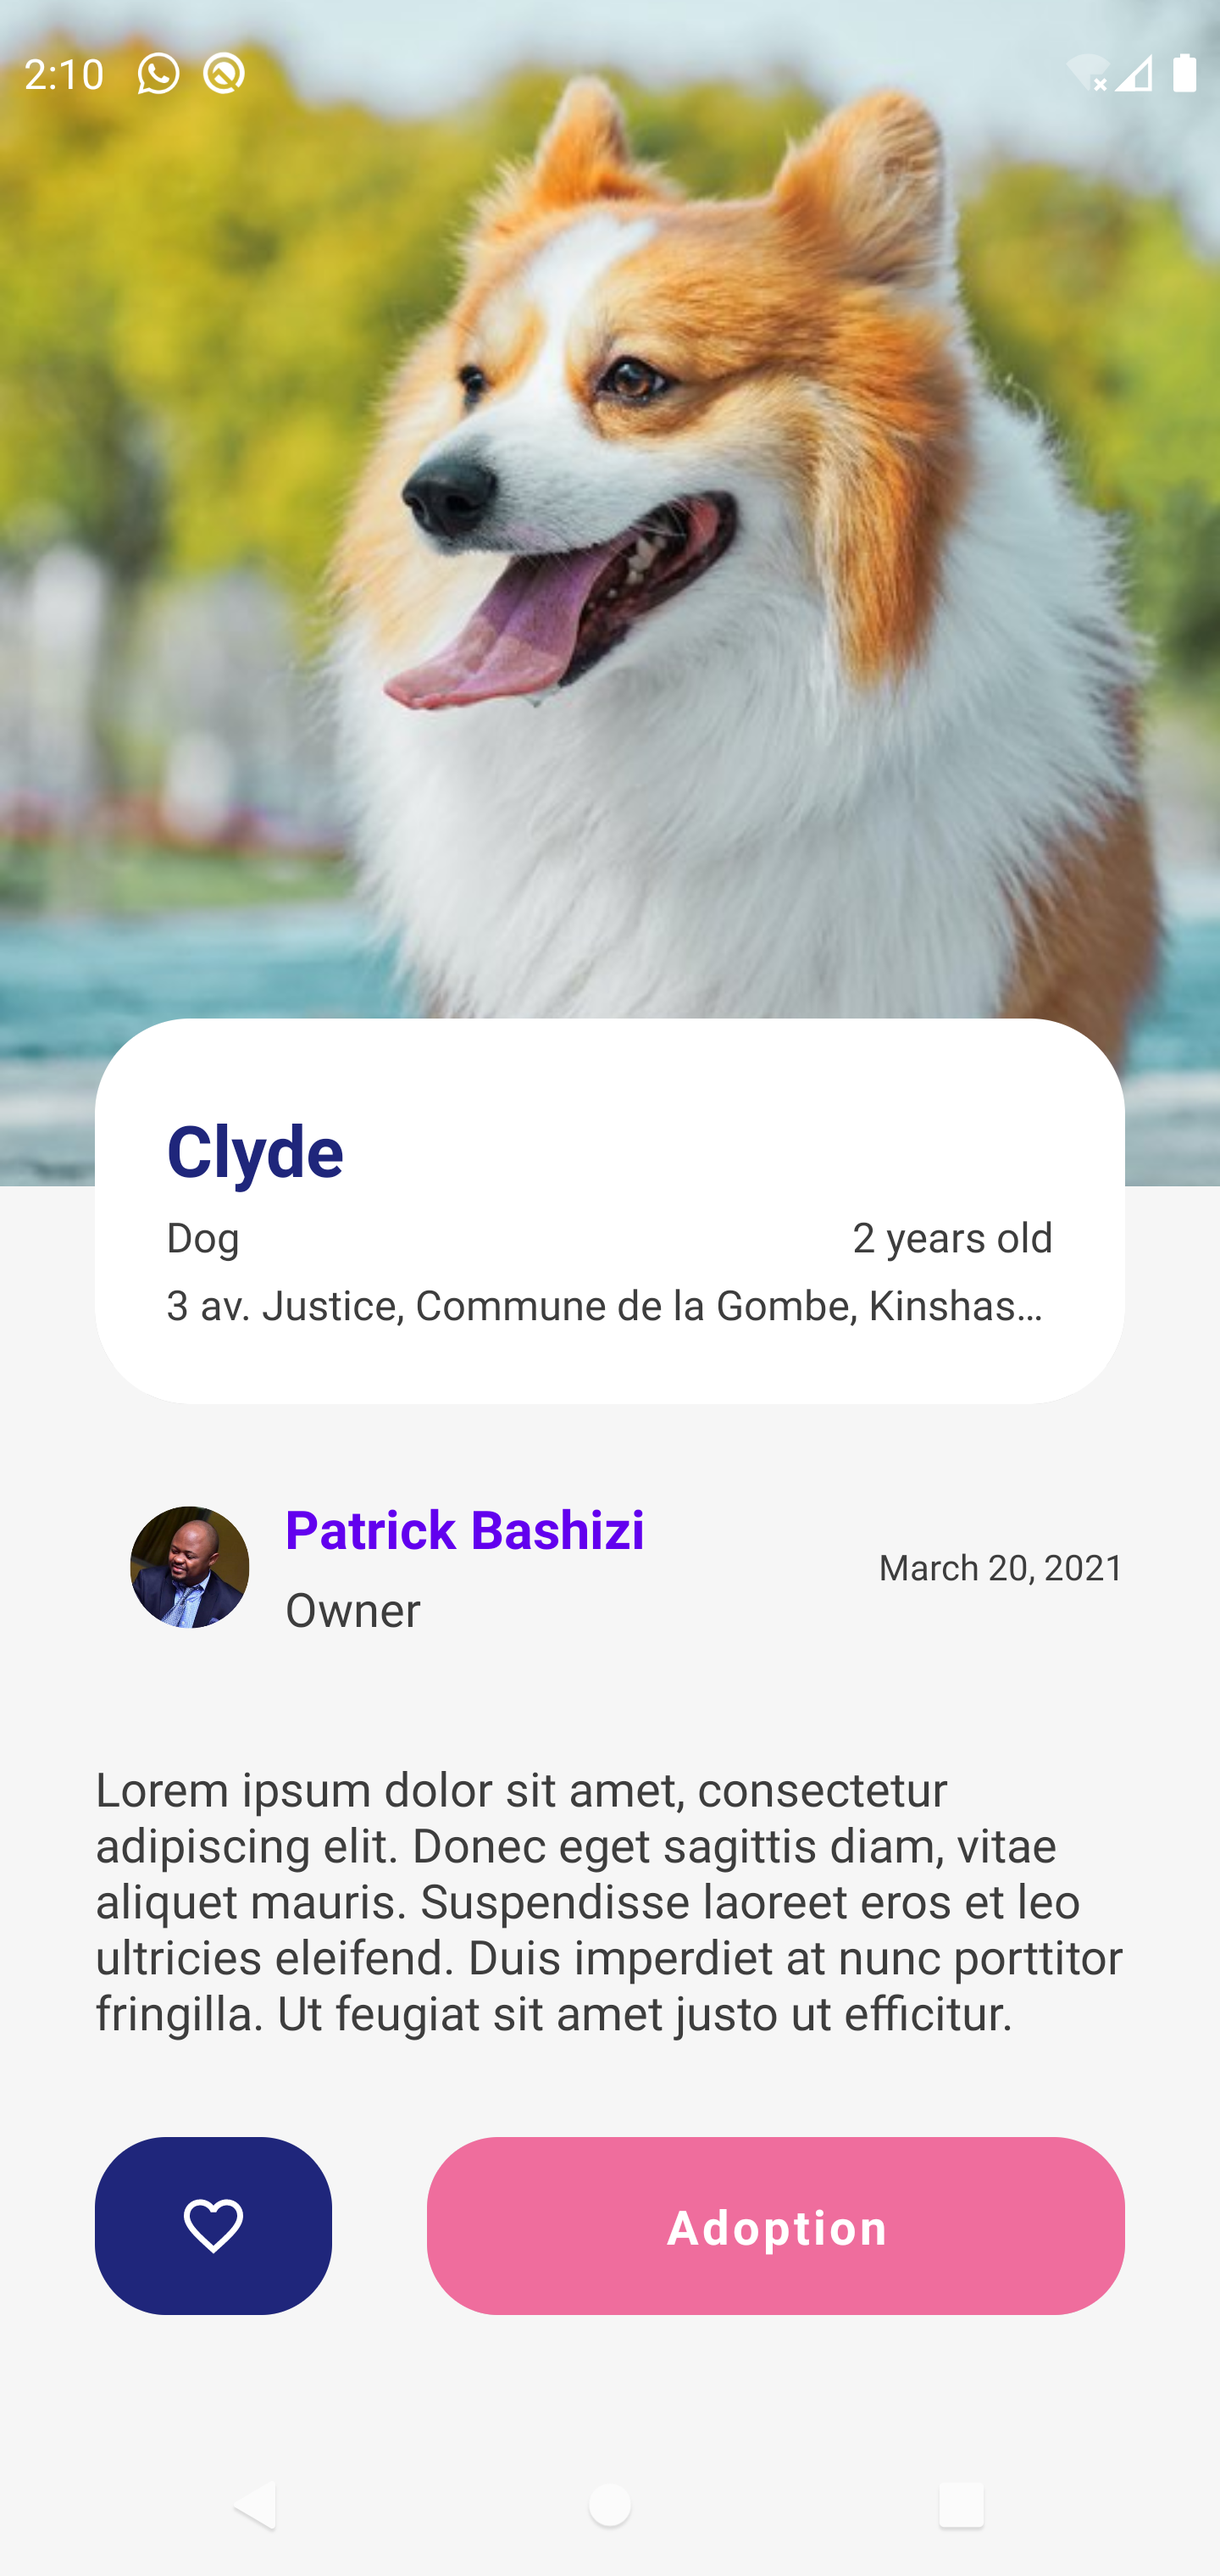
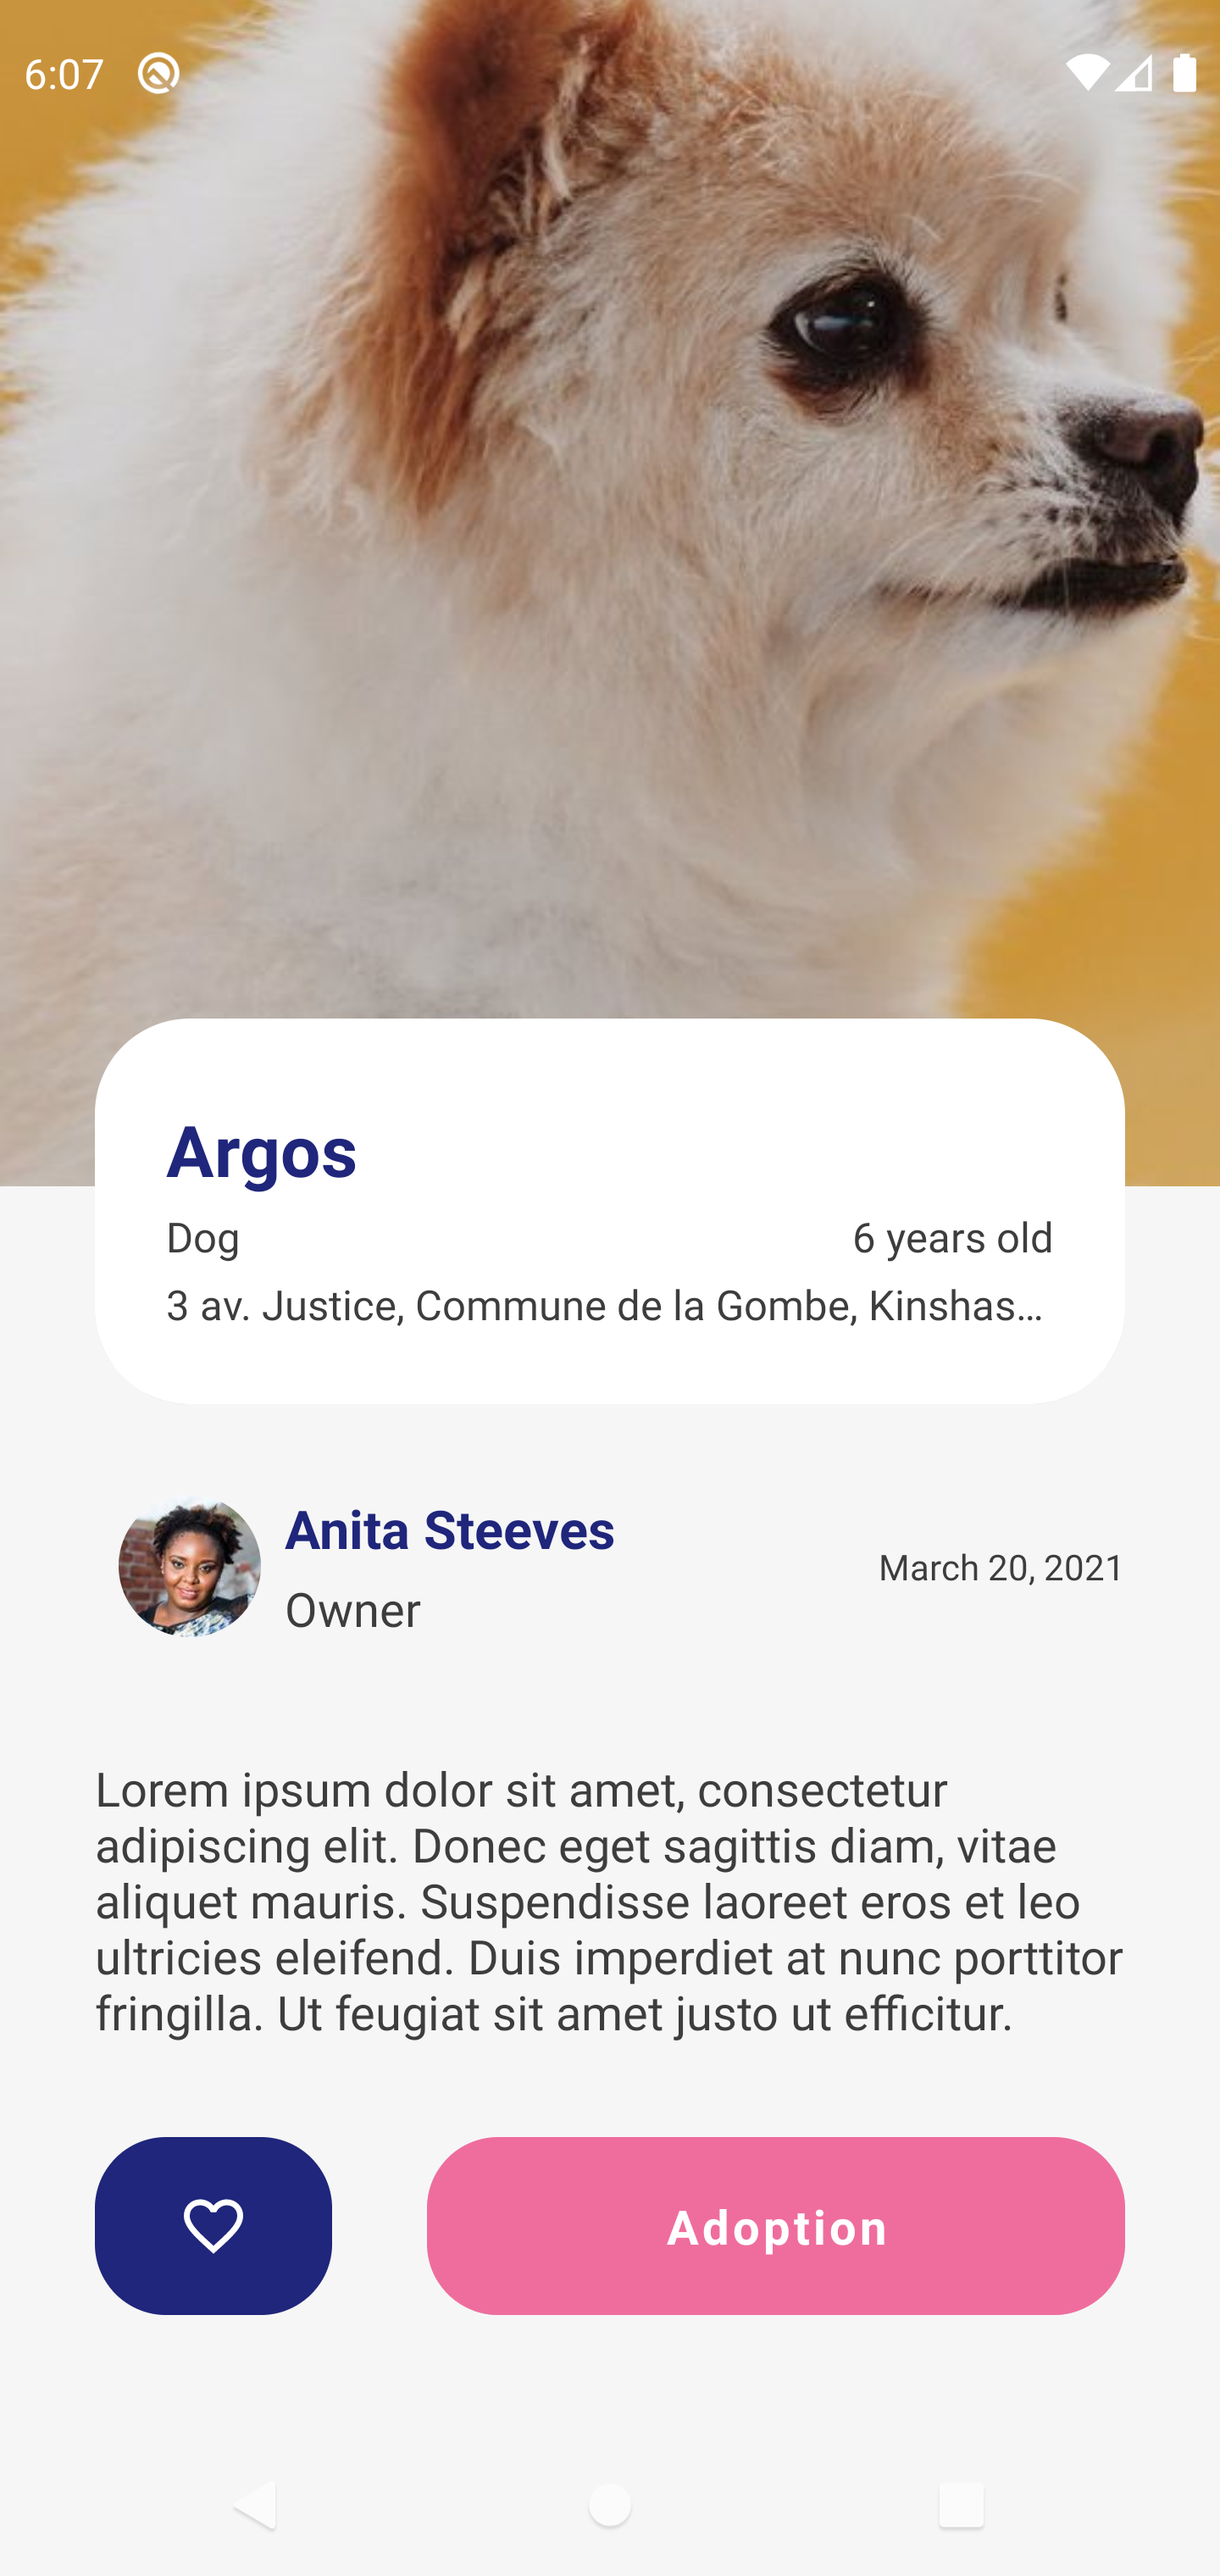
updated screenshots

diff --git a/app/src/main/java/com/example/androiddevchallenge/MignonDetails.kt b/app/src/main/java/com/example/androiddevchallenge/MignonDetails.kt
@@ -174,7 +174,7 @@ class MignonDetails : AppCompatActivity() {
             verticalAlignment = Alignment.CenterVertically
         ) {
             Image(
-                painter = painterResource(id = R.drawable.bash),
+                painter = painterResource(id = R.drawable.anita),
                 contentDescription = "",
                 modifier = Modifier
                     .padding(8.dp)
@@ -186,7 +186,7 @@ class MignonDetails : AppCompatActivity() {
 
             ) {
                 Text(
-                    text = "Patrick Bashizi",
+                    text = "Anita Steeves",
                     color = colorResource(id = R.color.jacksons_purple_500),
                     fontWeight = FontWeight.Bold,
                     fontSize = 18.sp,
